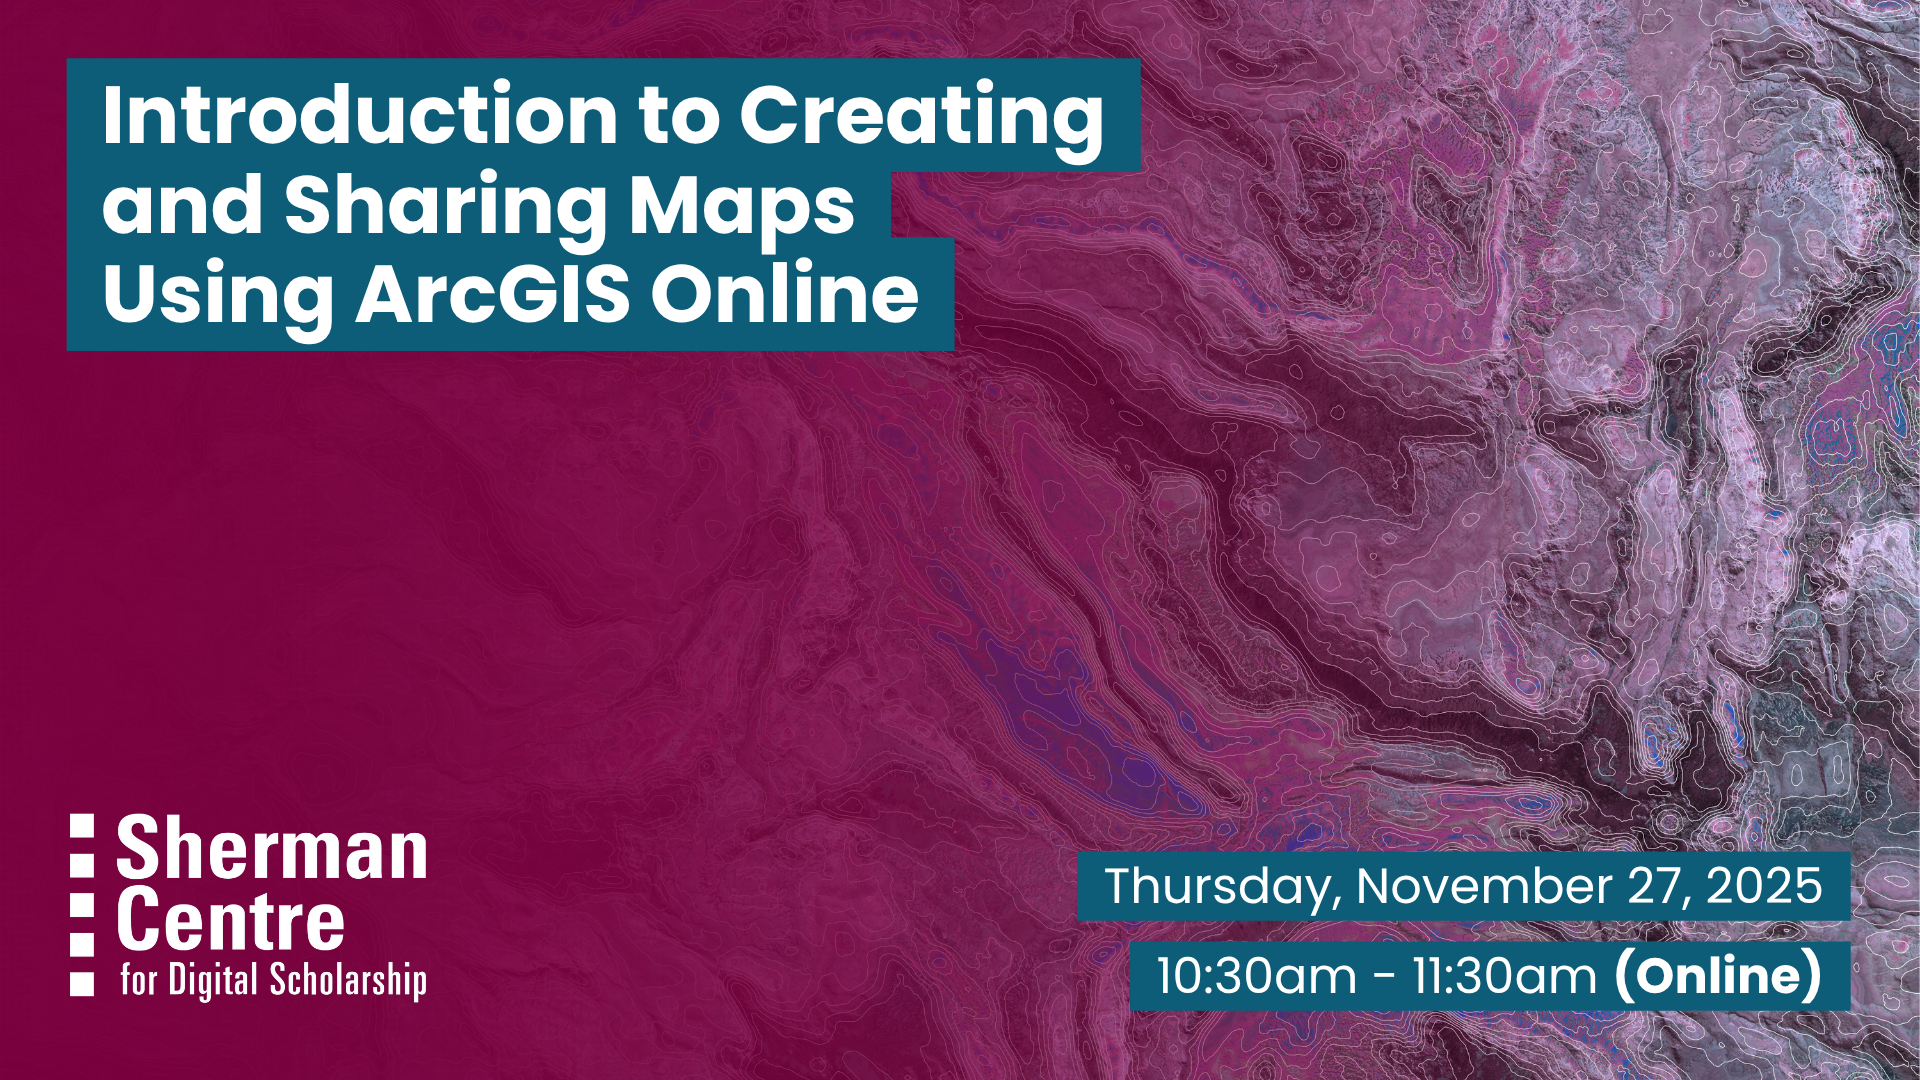
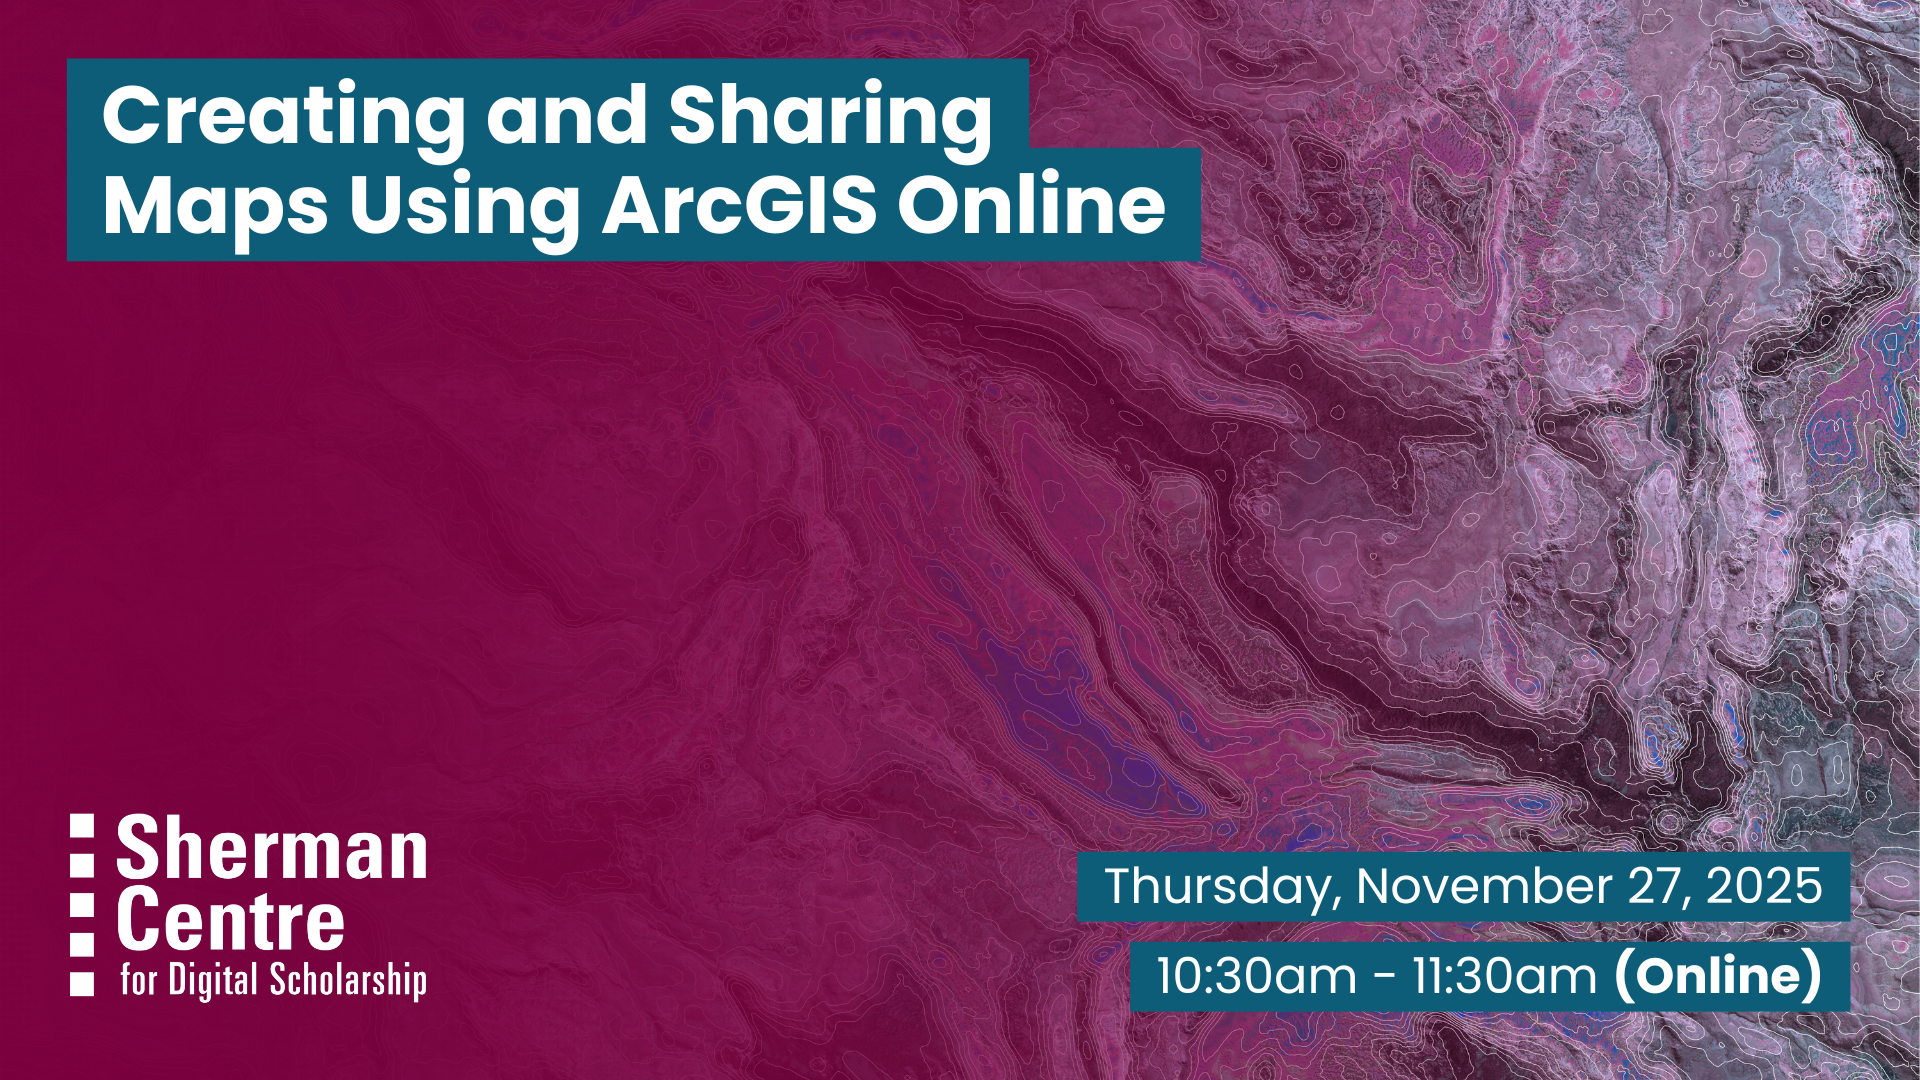
arcgis-online title and poster fix

Changed region(s): [[0.0312, 0.0306, 0.625, 0.3361]]

diff --git a/arcgis-online.md b/arcgis-online.md
@@ -1,12 +1,12 @@
 ---
 layout: default
-title: Introduction to Creating and Sharing Maps Using ArcGIS Online
+title: Creating and Sharing Maps Using ArcGIS Online
 nav_order: 20251127
 ---
 
 <img src="assets/img/arcgis-online.png" alt="Workshop Title Slide" width="100%">
 
-# Introduction to Creating and Sharing Maps Using ArcGIS Online
+# Creating and Sharing Maps Using ArcGIS Online
 
 Want to bring your data to life through interactive maps? This beginner-friendly workshop introduces the fundamentals of Geographic Information Systems (GIS) and geospatial data before guiding you step-by-step through creating your own interactive web map using ArcGIS Online. Perfect for beginners, this session combines essential theory with hands-on practice to help you confidently start mapping online. ArcGIS Online is available free of charge to current students, staff, and faculty at McMaster University for coursework and research.
 
@@ -16,8 +16,6 @@ By the end of the workshop, participants will be able to:
 - Create a simple, functional map using ArcGIS Online by applying the skills learned during the workshop.
 
 No prior experience is needed! This session is perfect for beginners interested in mapping who want to learn how to work with geographic data and create digital maps using ArcGIS Online.
-
-Prep: To follow along, participants will need access to ArcGIS Online. Current McMaster students, staff, and faculty can request a license through the ArcGIS Software Request Form [https://mcmaster-ca.libwizard.com/f/arcgis](https://mcmaster-ca.libwizard.com/f/arcgis).
 
 ## Workshop Preparation
 
